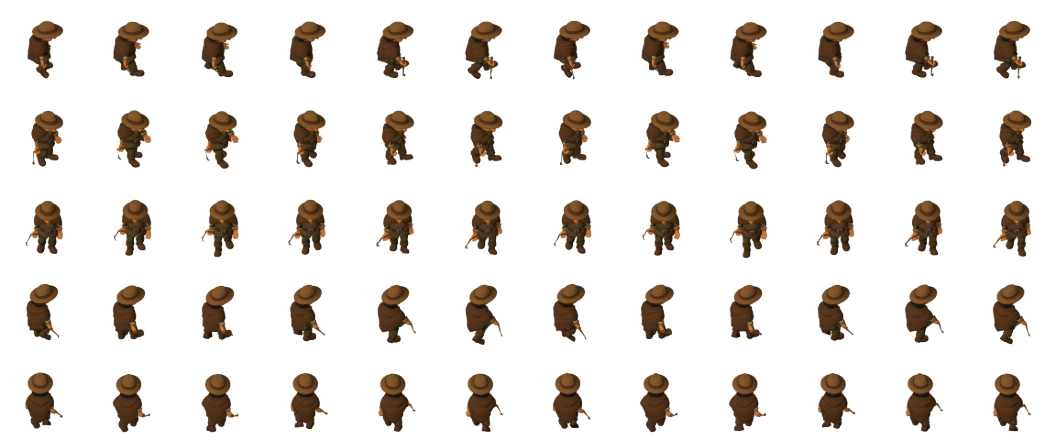
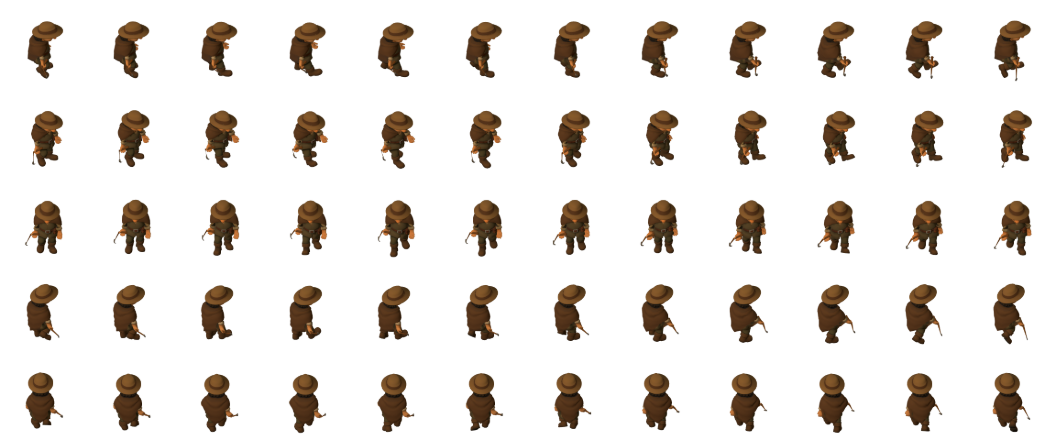
T14 Arbeitsstand 2: Soldaten-Kampfblaetter, Laufruck-Heilung, Axthieb (Agent laeuft)
Zwischenstand des Kinematik-Subagenten: sword/spear/bow-Kampfposen neu
gebacken (zerrissene Tripo-Clips ersetzt), Holzfaeller-Laufruck doppelt
geheilt (walkFenster: der Geh-Clip enthaelt ZWEI Schrittzyklen, per
Fusshoehen-Periodik vermessen; zentrierKnochen: Streu-Vertices am
neutral_bone verankerten die Bounding-Box), geo_walk ebenso,
Axthieb und Planierer ueberarbeitet. Abschlussbericht des Agenten,
Farb-Pass und sw-Bump folgen im v234-Paket.

Claude-Session: https://claude.ai/code/session_01NJiXwFpbq91ri9gPbhzERB

diff --git a/tools/posen.js b/tools/posen.js
@@ -95,24 +95,27 @@ const HACK = [
           Spine01:[-12,0,0], Head:[7,0,0] }],
 ];
 // HAMMER: kurzer, flinker Schlag auf Brust-/Kniehoehe (Bauarbeiter).
+// Beim Ausholen kippt die Faust den Kopf zusaetzlich nach hinten-oben
+// (R_Hand X-): ohne das zeigte der Hammer laengs der Blickachse und
+// verschwand in der Seitenansicht fast voellig (Zoom-Pruefung T15).
 const HAMMERN = [
   [0,   { R_Upperarm:[42,0,-6],  R_Forearm:[-55,0,0],
           L_Upperarm:[14,0,6],   L_Forearm:[-20,0,0],
           Spine01:[-8,0,0], Head:[4,0,0] }],
-  [1.5, { R_Upperarm:[100,0,-10],R_Forearm:[-62,0,0],
+  [1.5, { R_Upperarm:[100,0,-10],R_Forearm:[-62,0,0], R_Hand:[-32,0,0],
           L_Upperarm:[16,0,6],   L_Forearm:[-22,0,0],
           Spine01:[2,0,0], Head:[6,0,0] }],
-  [2.5, { R_Upperarm:[122,0,-12],R_Forearm:[-72,0,0],
+  [2.5, { R_Upperarm:[122,0,-12],R_Forearm:[-72,0,0], R_Hand:[-42,0,0],
           L_Upperarm:[18,0,7],   L_Forearm:[-24,0,0],
           Spine01:[6,0,0], Spine02:[2,0,0], Head:[8,0,0] }],
-  [4,   { R_Upperarm:[44,0,-6],  R_Forearm:[-10,0,0],                // KONTAKT
+  [4,   { R_Upperarm:[44,0,-6],  R_Forearm:[-10,0,0], R_Hand:[8,0,0], // KONTAKT
           L_Upperarm:[14,0,6],   L_Forearm:[-18,0,0],
           Spine01:[-18,0,0], Spine02:[-7,0,0], Head:[11,0,0],
           R_Thigh:[-4,0,0], R_Calf:[6,0,0], L_Thigh:[-3,0,0], L_Calf:[5,0,0] }],
   [5,   { R_Upperarm:[52,0,-7],  R_Forearm:[-34,0,0],
           L_Upperarm:[14,0,6],   L_Forearm:[-18,0,0],
           Spine01:[-18,0,0], Spine02:[-6,0,0], Head:[10,0,0] }],
-  [6.5, { R_Upperarm:[46,0,-6],  R_Forearm:[-48,0,0],
+  [6.5, { R_Upperarm:[46,0,-6],  R_Forearm:[-48,0,0], R_Hand:[-14,0,0],
           L_Upperarm:[14,0,6],   L_Forearm:[-20,0,0],
           Spine01:[-10,0,0], Head:[5,0,0] }],
 ];
@@ -202,27 +205,156 @@ const ANGELN = [
           Spine01:[-6,0,0], Head:[2,0,0] }],
 ];
 // SCHAUFEL: einstechen, hebeln, seitlich auswerfen (Planierer).
+// Linke Hand ADDUZIERT (Z-) an den Schaft - Z+ spreizte sie weg vom
+// Werkzeug (gleiche Messung wie beim Holzfaeller, T15).
 const SCHAUFELN = [
   [0,   { R_Upperarm:[36,0,-6],  R_Forearm:[-30,0,0],
-          L_Upperarm:[30,0,10],  L_Forearm:[-40,0,0],
+          L_Upperarm:[30,0,-12], L_Forearm:[-40,0,0],
           Spine01:[-10,0,0], Head:[5,0,0] }],
   [1.5, { R_Upperarm:[62,0,-8],  R_Forearm:[-50,0,0],
-          L_Upperarm:[42,0,12],  L_Forearm:[-52,0,0],
+          L_Upperarm:[42,0,-16], L_Forearm:[-52,0,0],
           Spine01:[0,0,0], Head:[6,0,0] }],
   [3,   { R_Upperarm:[46,0,-6],  R_Forearm:[-18,0,0],
-          L_Upperarm:[34,0,10],  L_Forearm:[-30,0,0],
+          L_Upperarm:[34,0,-14], L_Forearm:[-30,0,0],
           Spine01:[-24,0,0], Spine02:[-8,0,0], Head:[12,0,0],
           R_Thigh:[-6,0,0], R_Calf:[8,0,0], L_Thigh:[-5,0,0], L_Calf:[7,0,0] }],
   [4,   { R_Upperarm:[40,0,-6],  R_Forearm:[-10,0,0],                // KONTAKT (Stich)
-          L_Upperarm:[32,0,10],  L_Forearm:[-24,0,0],
+          L_Upperarm:[32,0,-14], L_Forearm:[-24,0,0],
           Spine01:[-34,0,0], Spine02:[-12,0,0], Head:[16,0,0],
           R_Thigh:[-8,0,0], R_Calf:[11,0,0], L_Thigh:[-7,0,0], L_Calf:[10,0,0] }],
   [5.5, { R_Upperarm:[58,0,-8],  R_Forearm:[-44,0,0],
-          L_Upperarm:[48,0,14],  L_Forearm:[-56,0,0],
+          L_Upperarm:[48,0,-18], L_Forearm:[-56,0,0],
           Spine01:[-8,-14,0], Spine02:[-2,-5,0], Head:[8,5,0] }],
   [7,   { R_Upperarm:[40,0,-7],  R_Forearm:[-34,0,0],
-          L_Upperarm:[33,0,10],  L_Forearm:[-42,0,0],
+          L_Upperarm:[33,0,-12], L_Forearm:[-42,0,0],
           Spine01:[-10,-4,0], Head:[6,1,0] }],
+];
+// ---------- Soldaten (T14) ------------------------------------------------
+// Die Tripo-Angriffs-Clips der Soldaten (1.29 s) ZERFETZEN Helmbusch und
+// Umhang in freischwebende Fragmente, teils fehlen ganze Spalten (s. die
+// zerrissenen Blaetter unit_sword_atk/unit_spear_atk/unit_bow_atk vom
+// 13.08.). Die idle-/Geh-Blaetter derselben Modelle sind GANZ - das
+// Zerreissen kommt also vom Clip, nicht vom Mesh. Heilung wie bei den
+// Berufen: handgesetzte Schluesselbilder ueber der ruhigen Basis (die
+// Soldaten haben keinen echten Warte-Clip, der Treiber nimmt den
+// Geh-Durchschwung bei 27 %). Die Waffen stecken im Mesh - KEIN
+// prozedurales Werkzeug anbringen (sonst Doppelwaffe). ABER: sie sind
+// NICHT an die Handknochen geskinnt (numerisch geprueft, posekalib):
+// Klinge und Speer haengen an der Oberarmkette (~60 % des Armwinkels,
+// Drehpunkt Schulter), der Bogen an der LINKEN Faust samt Twist-Knochen.
+// Die Posen unten arbeiten innerhalb dieser Grenzen.
+//
+// SCHWERT: Hieb von oben-seitlich, der Schild bleibt vorn. Rechter Arm
+// holt uebers rechte Schulterblatt aus (Rumpf dreht Y+ mit), verharrt
+// kurz, dann faellt der Hieb in 0.8 Frames quer nach vorn-unten
+// (Kontakt Spalte 4). Der linke Arm haelt den Schild konstant vor der
+// Brust - er macht den Hieb NICHT mit, das laese sich als Torkeln.
+// GRENZE (numerisch geprueft, pose-sword.png): die Klinge ist NUR an die
+// Oberarmkette geskinnt - R_Hand/R_Forearm bewegen sie gar nicht, sie
+// dreht mit ~60 % des Oberarmwinkels um die SCHULTER. Ausholen ueber den
+// Kopf (Klinge nach hinten-oben) ist damit unerreichbar; das Maximum ist
+// die Diagonale vor der Schulter. Faust-Drehungen bleiben deshalb WEG -
+// sie wuerden die Faust nur sichtbar vom Griff loesen.
+const SCHWERTHIEB = [
+  [0,   { R_Upperarm:[32,0,-8],  R_Forearm:[-42,0,0],                // Bereitschaft
+          L_Upperarm:[38,0,-6],  L_Forearm:[-66,0,0],
+          Spine01:[-6,6,0], Head:[4,-2,0] }],
+  [1.4, { R_Upperarm:[112,0,-18],R_Forearm:[-74,0,0],                // Klinge steigt
+          L_Upperarm:[40,0,-6],  L_Forearm:[-68,0,0],
+          Spine01:[8,16,0], Spine02:[3,7,0], Head:[5,-7,0],
+          R_Thigh:[3,0,0], L_Thigh:[3,0,0] }],
+  [2.4, { R_Upperarm:[154,0,-26],R_Forearm:[-86,0,0],                // volles Ausholen
+          L_Upperarm:[42,0,-7],  L_Forearm:[-70,0,0],
+          Spine01:[14,24,0], Spine02:[6,10,0], Head:[7,-10,0],
+          R_Thigh:[4,0,0], L_Thigh:[4,0,0] }],
+  [3.2, { R_Upperarm:[146,0,-24],R_Forearm:[-82,0,0],                // Verharren oben
+          L_Upperarm:[42,0,-7],  L_Forearm:[-70,0,0],
+          Spine01:[12,22,0], Spine02:[5,9,0], Head:[7,-9,0],
+          R_Thigh:[4,0,0], L_Thigh:[4,0,0] }],
+  [4,   { R_Upperarm:[62,0,6],   R_Forearm:[-6,0,0],                 // KONTAKT
+          L_Upperarm:[40,0,-6],  L_Forearm:[-62,0,0],
+          Spine01:[-22,-14,0], Spine02:[-9,-6,0], Head:[12,6,0],
+          R_Thigh:[-7,0,0], R_Calf:[9,0,0], L_Thigh:[-6,0,0], L_Calf:[8,0,0] }],
+  [5,   { R_Upperarm:[66,0,4],   R_Forearm:[-10,0,0],                // Klinge steht
+          L_Upperarm:[40,0,-6],  L_Forearm:[-64,0,0],
+          Spine01:[-20,-12,0], Spine02:[-8,-5,0], Head:[11,5,0],
+          R_Thigh:[-6,0,0], R_Calf:[8,0,0], L_Thigh:[-5,0,0], L_Calf:[7,0,0] }],
+  [6.5, { R_Upperarm:[44,0,-8],  R_Forearm:[-36,0,0],                // zurueck
+          L_Upperarm:[39,0,-6],  L_Forearm:[-67,0,0],
+          Spine01:[-10,2,0], Head:[6,0,0] }],
+];
+// SPEER: Stoss nach vorn-oben. GRENZE (numerisch geprueft, pose-spear.png):
+// der Speer ist wie die Klinge NUR an die Oberarmkette geskinnt - Faust
+// und Ellbogen bewegen ihn nicht, er dreht mit ~60 % des Oberarmwinkels
+// um die SCHULTER und loest sich bei gestrecktem Arm sichtbar von der
+// Faust. Ein waagerechter Stoss ist damit unerreichbar; das Machbare ist
+// der DIAGONALE Stoss (Speer ~55 Grad, Spitze vor-oben) mit kraeftigem
+// Koerper-Ausfall. Damit die Faust optisch am Schaft bleibt, ist der
+// Ellbogen am Kontakt mitgebeugt (Up105/Fa-45 aus der Montage - bei
+// Fa-6 stand die Faust eine halbe Handbreit neben dem Schaft).
+const SPEERSTOSS = [
+  [0,   { R_Upperarm:[4,0,-4],   R_Forearm:[-10,0,0],                // Bereitschaft
+          L_Upperarm:[26,0,-10], L_Forearm:[-44,0,0],
+          Spine01:[-4,4,0], Head:[3,0,0] }],
+  [1.6, { R_Upperarm:[-12,0,-8], R_Forearm:[-26,0,0],                // zuruecknehmen
+          L_Upperarm:[40,0,-16], L_Forearm:[-56,0,0],
+          Spine01:[5,18,0], Spine02:[2,8,0], Head:[2,-8,0],
+          R_Thigh:[2,0,0], L_Thigh:[2,0,0] }],
+  [3.2, { R_Upperarm:[-18,0,-10],R_Forearm:[-34,0,0],                // gespannt
+          L_Upperarm:[44,0,-18], L_Forearm:[-60,0,0],
+          Spine01:[7,22,0], Spine02:[3,10,0], Head:[2,-10,0],
+          R_Thigh:[3,0,0], L_Thigh:[3,0,0] }],
+  [4,   { R_Upperarm:[105,0,4],  R_Forearm:[-45,0,0],                // KONTAKT (Stoss)
+          L_Upperarm:[46,0,-24], L_Forearm:[-30,0,0],
+          Spine01:[-18,-14,0], Spine02:[-7,-6,0], Head:[10,7,0],
+          R_Thigh:[-7,0,0], R_Calf:[9,0,0], L_Thigh:[-5,0,0], L_Calf:[7,0,0] }],
+  [5,   { R_Upperarm:[98,0,2],   R_Forearm:[-44,0,0],                // steckt
+          L_Upperarm:[44,0,-22], L_Forearm:[-34,0,0],
+          Spine01:[-16,-12,0], Spine02:[-6,-5,0], Head:[9,6,0],
+          R_Thigh:[-6,0,0], R_Calf:[8,0,0], L_Thigh:[-4,0,0], L_Calf:[6,0,0] }],
+  [6.5, { R_Upperarm:[30,0,-4],  R_Forearm:[-20,0,0],                // herausziehen
+          L_Upperarm:[34,0,-14], L_Forearm:[-42,0,0],
+          Spine01:[-4,0,0], Head:[4,0,0] }],
+];
+// BOGENSCHUSS: heben - spannen - LÖSEN (Spalte 4) - absetzen. Kalibriert
+// am Jaeger (T13), der den prozeduralen Bogen in der RECHTEN Faust traegt.
+const BOGENSCHUSS = [
+  [0,   { R_Upperarm:[30,0,-8],  R_Forearm:[-30,0,0], R_Hand:[0,0,0],
+          L_Upperarm:[12,0,4],   L_Forearm:[-18,0,0], Spine01:[0,0,0], Head:[2,0,0] }],
+  [1,   { R_Upperarm:[62,0,-6],  R_Forearm:[-14,0,0], R_Hand:[0,0,0],
+          L_Upperarm:[35,0,8],   L_Forearm:[-60,0,0], Spine01:[2,-1,0], Head:[0,0,0] }],
+  [2,   { R_Upperarm:[85,0,-6],  R_Forearm:[-8,0,0],  R_Hand:[0,0,0],
+          L_Upperarm:[55,0,10],  L_Forearm:[-100,0,0], Spine01:[4,-2,0], Head:[-2,0,0] }],
+  [3,   { R_Upperarm:[85,0,-6],  R_Forearm:[-8,0,0],  R_Hand:[0,0,0],
+          L_Upperarm:[60,0,10],  L_Forearm:[-120,0,0], Spine01:[5,-3,0], Head:[-3,0,0] }],
+  [4,   { R_Upperarm:[85,0,-6],  R_Forearm:[-8,0,0],  R_Hand:[0,0,0],   // LÖSEN
+          L_Upperarm:[42,0,6],   L_Forearm:[-55,0,0],  Spine01:[3,-2,0], Head:[-2,0,0] }],
+  [5,   { R_Upperarm:[78,0,-6],  R_Forearm:[-12,0,0], R_Hand:[0,0,0],
+          L_Upperarm:[25,0,4],   L_Forearm:[-30,0,0],  Spine01:[2,-1,0], Head:[0,0,0] }],
+  [6.5, { R_Upperarm:[40,0,-8],  R_Forearm:[-25,0,0], R_Hand:[0,0,0],
+          L_Upperarm:[14,0,4],   L_Forearm:[-20,0,0],  Spine01:[0,0,0], Head:[2,0,0] }],
+];
+// Der bow-SOLDAT ist Linkshand-Traeger: sein Mesh-Bogen haengt in der
+// LINKEN Faust (numerisch geprueft: R_Hand-Drehungen bewegen ihn gar
+// nicht, L_Upperarm 85 hebt ihn sauber vor die Brust; die Wurfarme sind
+// zusaetzlich auf Twist-/Calf-Knochen verschmiert, folgen aber bei
+// moderaten Amplituden ohne zu zerreissen). Darum das SPIEGELBILD der
+// Jaeger-Geste: links haelt den Bogen, rechts zieht die Sehne zur Wange.
+const BOGENSCHUSS_SPIEGEL = [
+  [0,   { L_Upperarm:[30,0,8],  L_Forearm:[-30,0,0],
+          R_Upperarm:[12,0,-4], R_Forearm:[-18,0,0], Spine01:[0,0,0], Head:[2,0,0] }],
+  [1,   { L_Upperarm:[62,0,6],  L_Forearm:[-14,0,0],
+          R_Upperarm:[35,0,-8], R_Forearm:[-60,0,0], Spine01:[2,1,0], Head:[0,0,0] }],
+  [2,   { L_Upperarm:[85,0,6],  L_Forearm:[-8,0,0],
+          R_Upperarm:[55,0,-10],R_Forearm:[-100,0,0], Spine01:[4,2,0], Head:[-2,0,0] }],
+  [3,   { L_Upperarm:[85,0,6],  L_Forearm:[-8,0,0],
+          R_Upperarm:[60,0,-10],R_Forearm:[-120,0,0], Spine01:[5,3,0], Head:[-3,0,0] }],
+  [4,   { L_Upperarm:[85,0,6],  L_Forearm:[-8,0,0],                   // LÖSEN
+          R_Upperarm:[42,0,-6], R_Forearm:[-55,0,0],  Spine01:[3,2,0], Head:[-2,0,0] }],
+  [5,   { L_Upperarm:[78,0,6],  L_Forearm:[-12,0,0],
+          R_Upperarm:[25,0,-4], R_Forearm:[-30,0,0],  Spine01:[2,1,0], Head:[0,0,0] }],
+  [6.5, { L_Upperarm:[40,0,8],  L_Forearm:[-25,0,0],
+          R_Upperarm:[14,0,-4], R_Forearm:[-20,0,0],  Spine01:[0,0,0], Head:[2,0,0] }],
 ];
 // Werkzeug-Anbringung: Stiel liegt QUER in der Faust (Grundlage +Y aus der
 // Faust). rot [90,0,0] kippt ihn ueber die FINGERKNOECHEL nach vorn - so
@@ -232,17 +364,47 @@ const SCHAUFELN = [
 const IN_FAUST=(kind,scale=1,rot=[90,0,0])=>({ atk:{ kind, bone:'R_Hand', pos:[0,0.02,0], rot, scale } });
 
 export const POSEN = {
-  geo:        { atk: HACK,       werkzeug: IN_FAUST('pick',1.25) },
+  // geo: der Geh-Clip (1,88 s) enthaelt ZWEI Schrittzyklen (Fusshoehen-
+  // Periodik: bestes P=0.5 bei Fehler 0.026, T15) - ohne Fenster zeigten
+  // die 12 Spalten beide Zyklen, also nur 6 echte Phasen (hastig).
+  geo:        { atk: HACK,       werkzeug: IN_FAUST('pick',1.25),
+                walkFenster:[0,0.5] },
   miner:      { atk: HACK,       werkzeug: IN_FAUST('pick',1.25) },
   quarry:     { atk: HACK,       werkzeug: IN_FAUST('pick',1.25) },
   builder:    { atk: HAMMERN,    werkzeug: IN_FAUST('hammer',1.7) },
   // Axt eine Stufe groesser (1.35 -> 1.5): auf Spielzoom war der Hieb sonst
-  // kaum als Axtschlag lesbar (Spielerkritik "Decke ausschuetteln")
-  woodcutter: { atk: HACKEN_AXT, werkzeug: IN_FAUST('axe',1.5) },
+  // kaum als Axtschlag lesbar (Spielerkritik "Decke ausschuetteln").
+  // Ruck beim Laufen (T15, Spielerkritik): zwei 2-Dreieck-Inseln der
+  // getragenen Axt haengen je zu 1/4 am STATISCHEN neutral_bone - bei der
+  // Root-Motion des Geh-Clips (+0,55 z) bleiben diese Vertices zurueck,
+  // zeichnen eine wachsende "Faden"-Linie und verankern die Zentrier-Box
+  // (Knick -> Figur rutscht, Loop springt). 'entfernen' loescht die
+  // Dreiecke, 'zentrierKnochen' macht den Versatz Box-unabhaengig.
+  // Der Geh-Clip enthaelt ausserdem wie beim geo ZWEI Schrittzyklen
+  // (R_Foot-Hoehenperiodik: Spitzen bei 0/0.47/0.94) -> walkFenster.
+  woodcutter: { atk: HACKEN_AXT, werkzeug: IN_FAUST('axe',1.5),
+                entfernen:[2992,3092], zentrierKnochen:'Hip',
+                walkFenster:[0,0.5] },
   // Sense: Blatt zum BODEN gedreht (die Faust-Grundlage hielte es nach oben)
   farm:       { atk: MAEHEN,     werkzeug: IN_FAUST('scythe',1.15,[-70,0,0]) },
-  leveler:    { atk: SCHAUFELN,  werkzeug: IN_FAUST('shovel',1.25) },
+  // leveler: im GLB steht eine ZWEITE Schaufel senkrecht neben der Figur -
+  // 71 Inseln (511 Verts), alle AUSSCHLIESSLICH an R_ToeBase geskinnt
+  // (islands()-Scan T15): sie folgt dem rechten Fuss statt der Hand und
+  // schwebte in jedem atk-Frame los vom Koerper. Isolationsprobe
+  // (axtprobe leveler): die IDs sind exakt Stiel+Blatt, die Schuhe
+  // bleiben ganz. Raus damit - die Faust-Schaufel uebernimmt.
+  // Werkzeug-rot -90 statt +90: der leveler ist der einzige Schaufel-
+  // Beruf mit ECHTEM Warte-Clip als atk-Basis, und dessen Faust steht
+  // um ~180 Grad anders als im Geh-Durchschwung - mit +90 zeigte das
+  // Blatt nach hinten-oben ueber die Schulter (Vorschau T15), mit -90
+  // nach vorn-unten in den Boden.
+  leveler:    { atk: SCHAUFELN,  werkzeug: IN_FAUST('shovel',1.4,[-90,0,0]),
+                entfernen:[372,238,406,448,231,99,111,464,465,94,105,390,310,1759,29,289,256,410,2,86,389,239,178,270,386,1711,138,309,400,363,375,557,621,72,411,443,398,408,474,23,224,261,419,342,325,355,444,762,39,169,68,208,104,120,121,110,198,125,287,299,332,356,379,361,403,404,385,402,450,451,579] },
   fisher:  { koerper: DICK, atk: ANGELN, werkzeug: IN_FAUST('rod',1.25) },
+  // Soldaten: Waffen stecken im Mesh, darum KEIN werkzeug-Eintrag (T14)
+  sword:   { atk: SCHWERTHIEB },
+  spear:   { atk: SPEERSTOSS },
+  bow:     { atk: BOGENSCHUSS_SPIEGEL },
   butcher: { koerper: DICK },
   miller:  { koerper: RUNDLICH },
   baker:   { koerper: RUNDLICH },
@@ -259,23 +421,8 @@ export const POSEN = {
       idle: { kind:'bow', bone:'R_Hand', pos:[0,0.02,0], rot:[0,90,0],   scale:1.1 },
       atk:  { kind:'bow', bone:'R_Hand', pos:[0,0.05,0], rot:[105,0,90], scale:1.1 },
     },
-    // Bogenschuss: heben - spannen - LÖSEN (Spalte 4) - absetzen
-    atk: [
-      [0,   { R_Upperarm:[30,0,-8],  R_Forearm:[-30,0,0], R_Hand:[0,0,0],
-              L_Upperarm:[12,0,4],   L_Forearm:[-18,0,0], Spine01:[0,0,0], Head:[2,0,0] }],
-      [1,   { R_Upperarm:[62,0,-6],  R_Forearm:[-14,0,0], R_Hand:[0,0,0],
-              L_Upperarm:[35,0,8],   L_Forearm:[-60,0,0], Spine01:[2,-1,0], Head:[0,0,0] }],
-      [2,   { R_Upperarm:[85,0,-6],  R_Forearm:[-8,0,0],  R_Hand:[0,0,0],
-              L_Upperarm:[55,0,10],  L_Forearm:[-100,0,0], Spine01:[4,-2,0], Head:[-2,0,0] }],
-      [3,   { R_Upperarm:[85,0,-6],  R_Forearm:[-8,0,0],  R_Hand:[0,0,0],
-              L_Upperarm:[60,0,10],  L_Forearm:[-120,0,0], Spine01:[5,-3,0], Head:[-3,0,0] }],
-      [4,   { R_Upperarm:[85,0,-6],  R_Forearm:[-8,0,0],  R_Hand:[0,0,0],   // LÖSEN
-              L_Upperarm:[42,0,6],   L_Forearm:[-55,0,0],  Spine01:[3,-2,0], Head:[-2,0,0] }],
-      [5,   { R_Upperarm:[78,0,-6],  R_Forearm:[-12,0,0], R_Hand:[0,0,0],
-              L_Upperarm:[25,0,4],   L_Forearm:[-30,0,0],  Spine01:[2,-1,0], Head:[0,0,0] }],
-      [6.5, { R_Upperarm:[40,0,-8],  R_Forearm:[-25,0,0], R_Hand:[0,0,0],
-              L_Upperarm:[14,0,4],   L_Forearm:[-20,0,0],  Spine01:[0,0,0], Head:[2,0,0] }],
-    ],
+    // Bogenschuss: gemeinsame Geste mit dem bow-Soldaten (s. BOGENSCHUSS)
+    atk: BOGENSCHUSS,
   },
   carrier: {
     // Tragepose (Set 'trag'): beide Haende halten die Kiste vor der Brust
